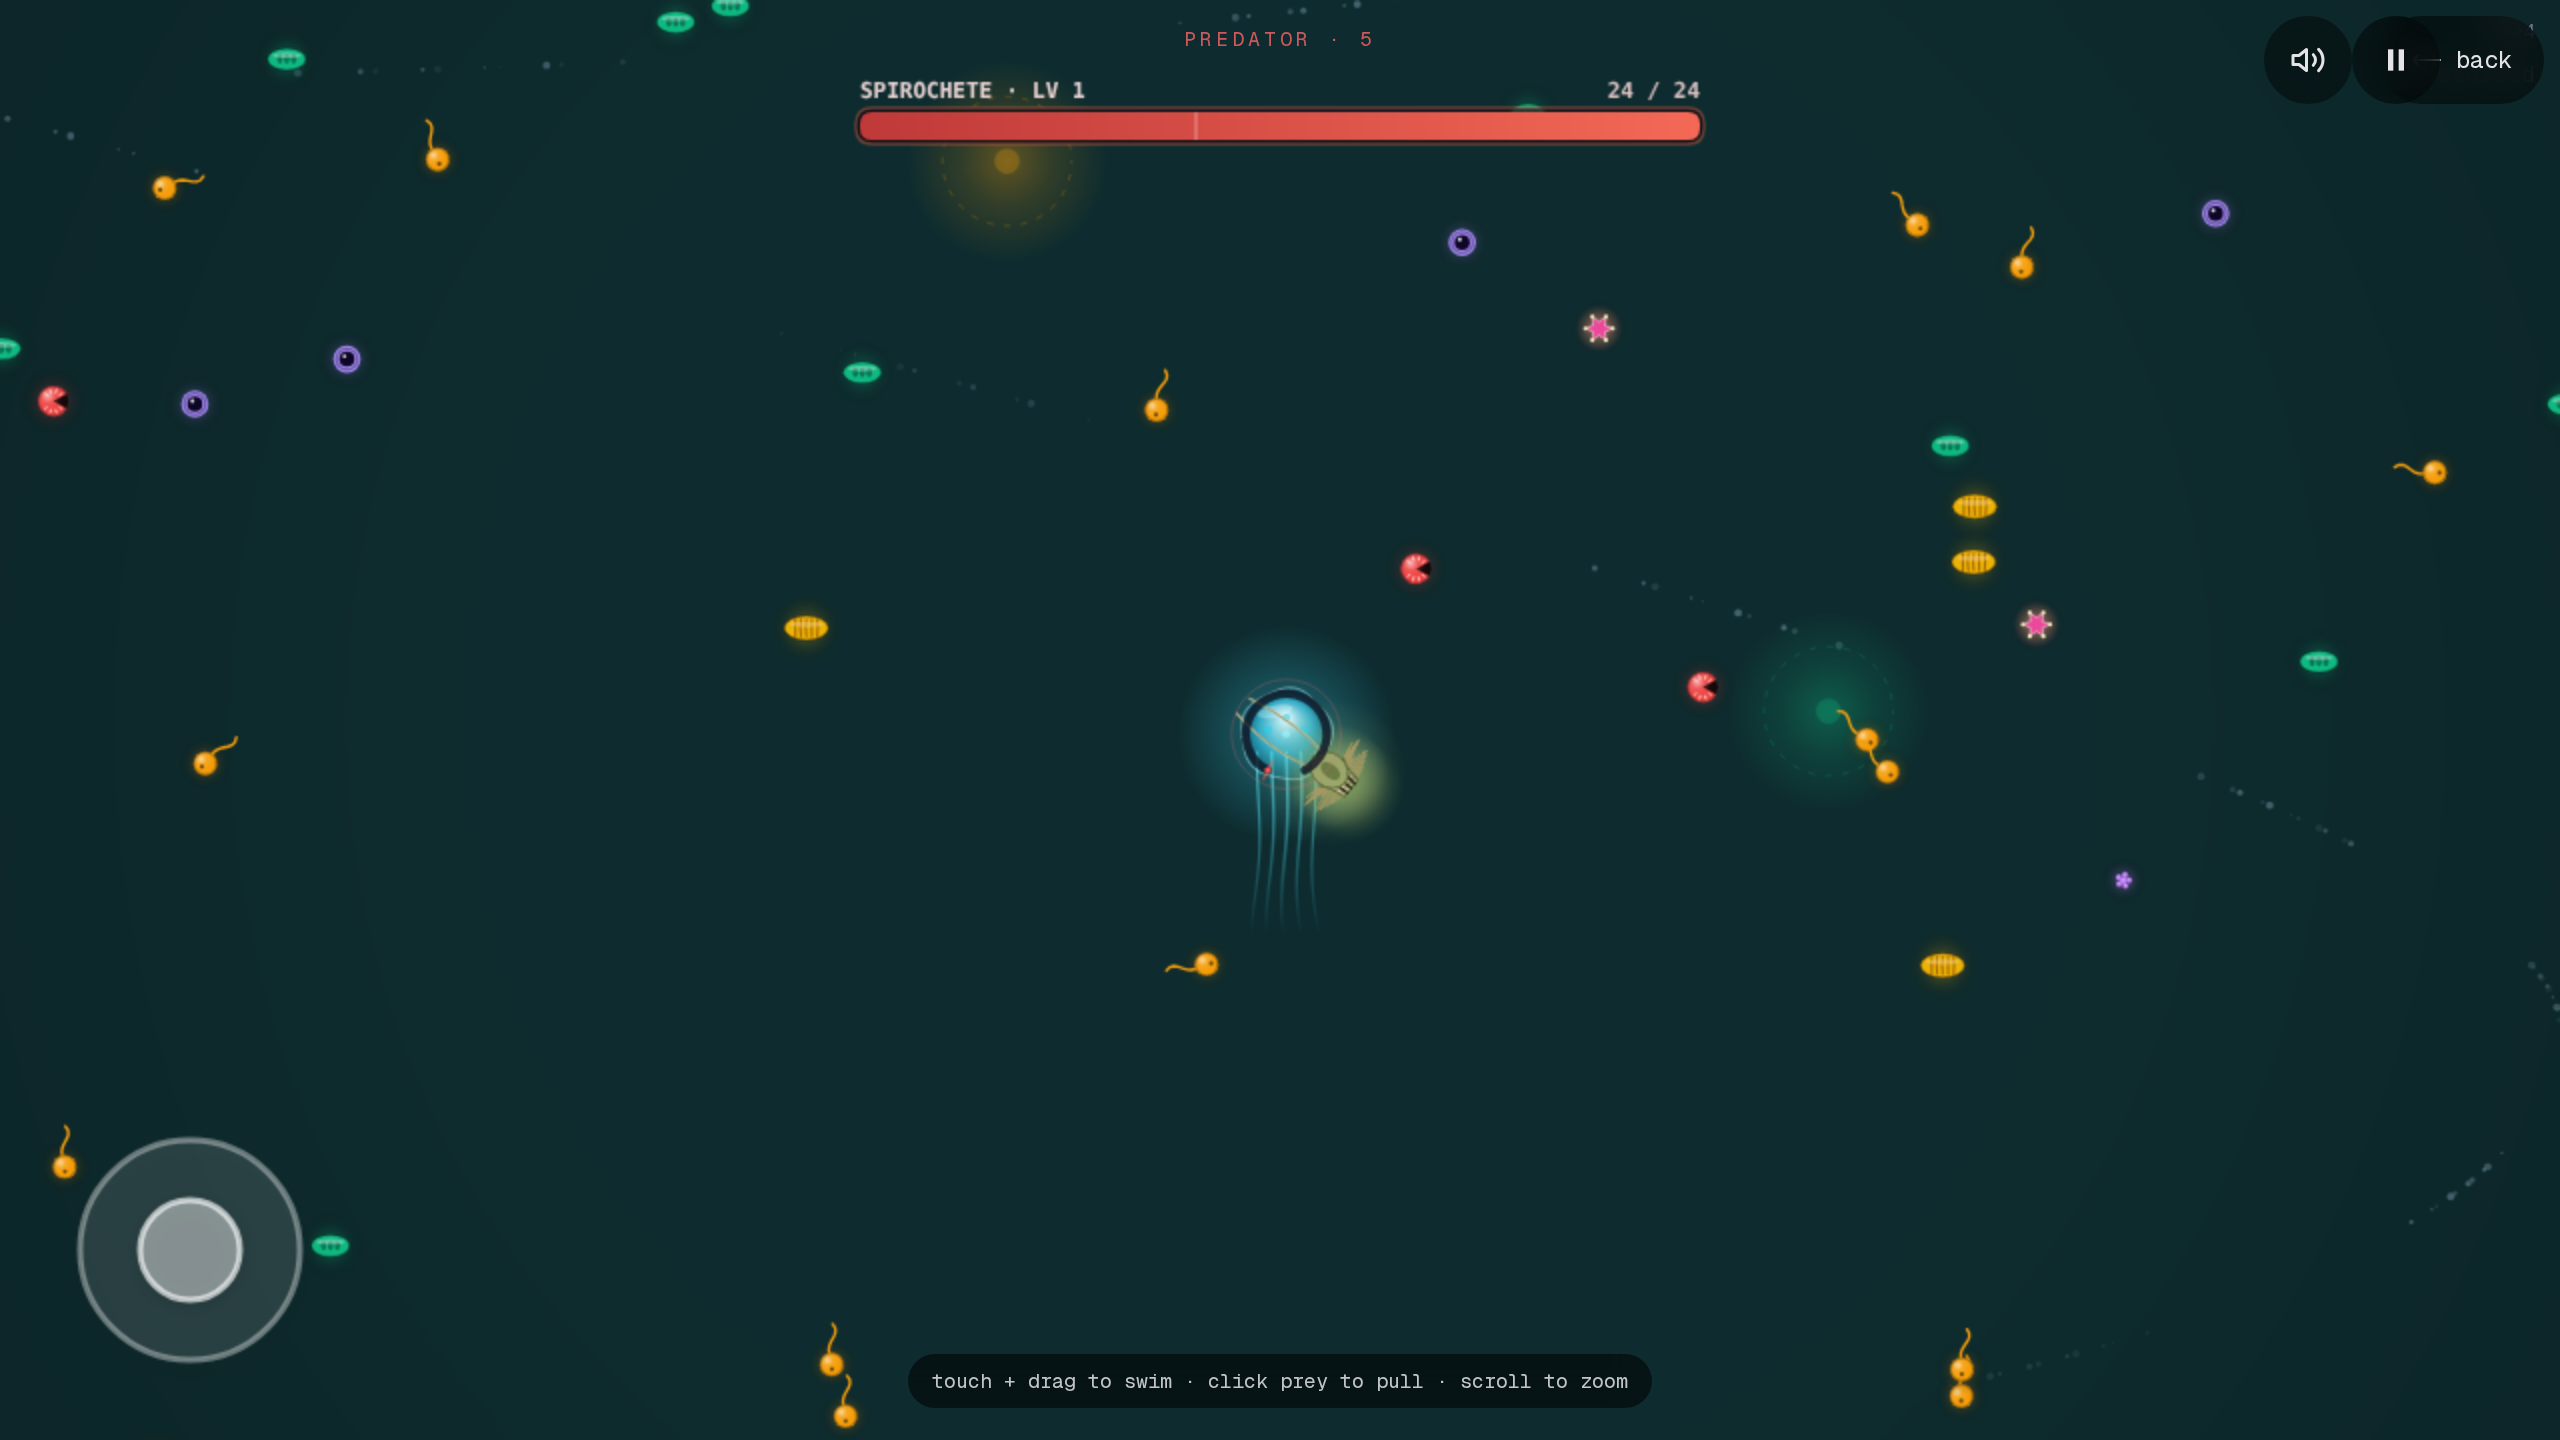
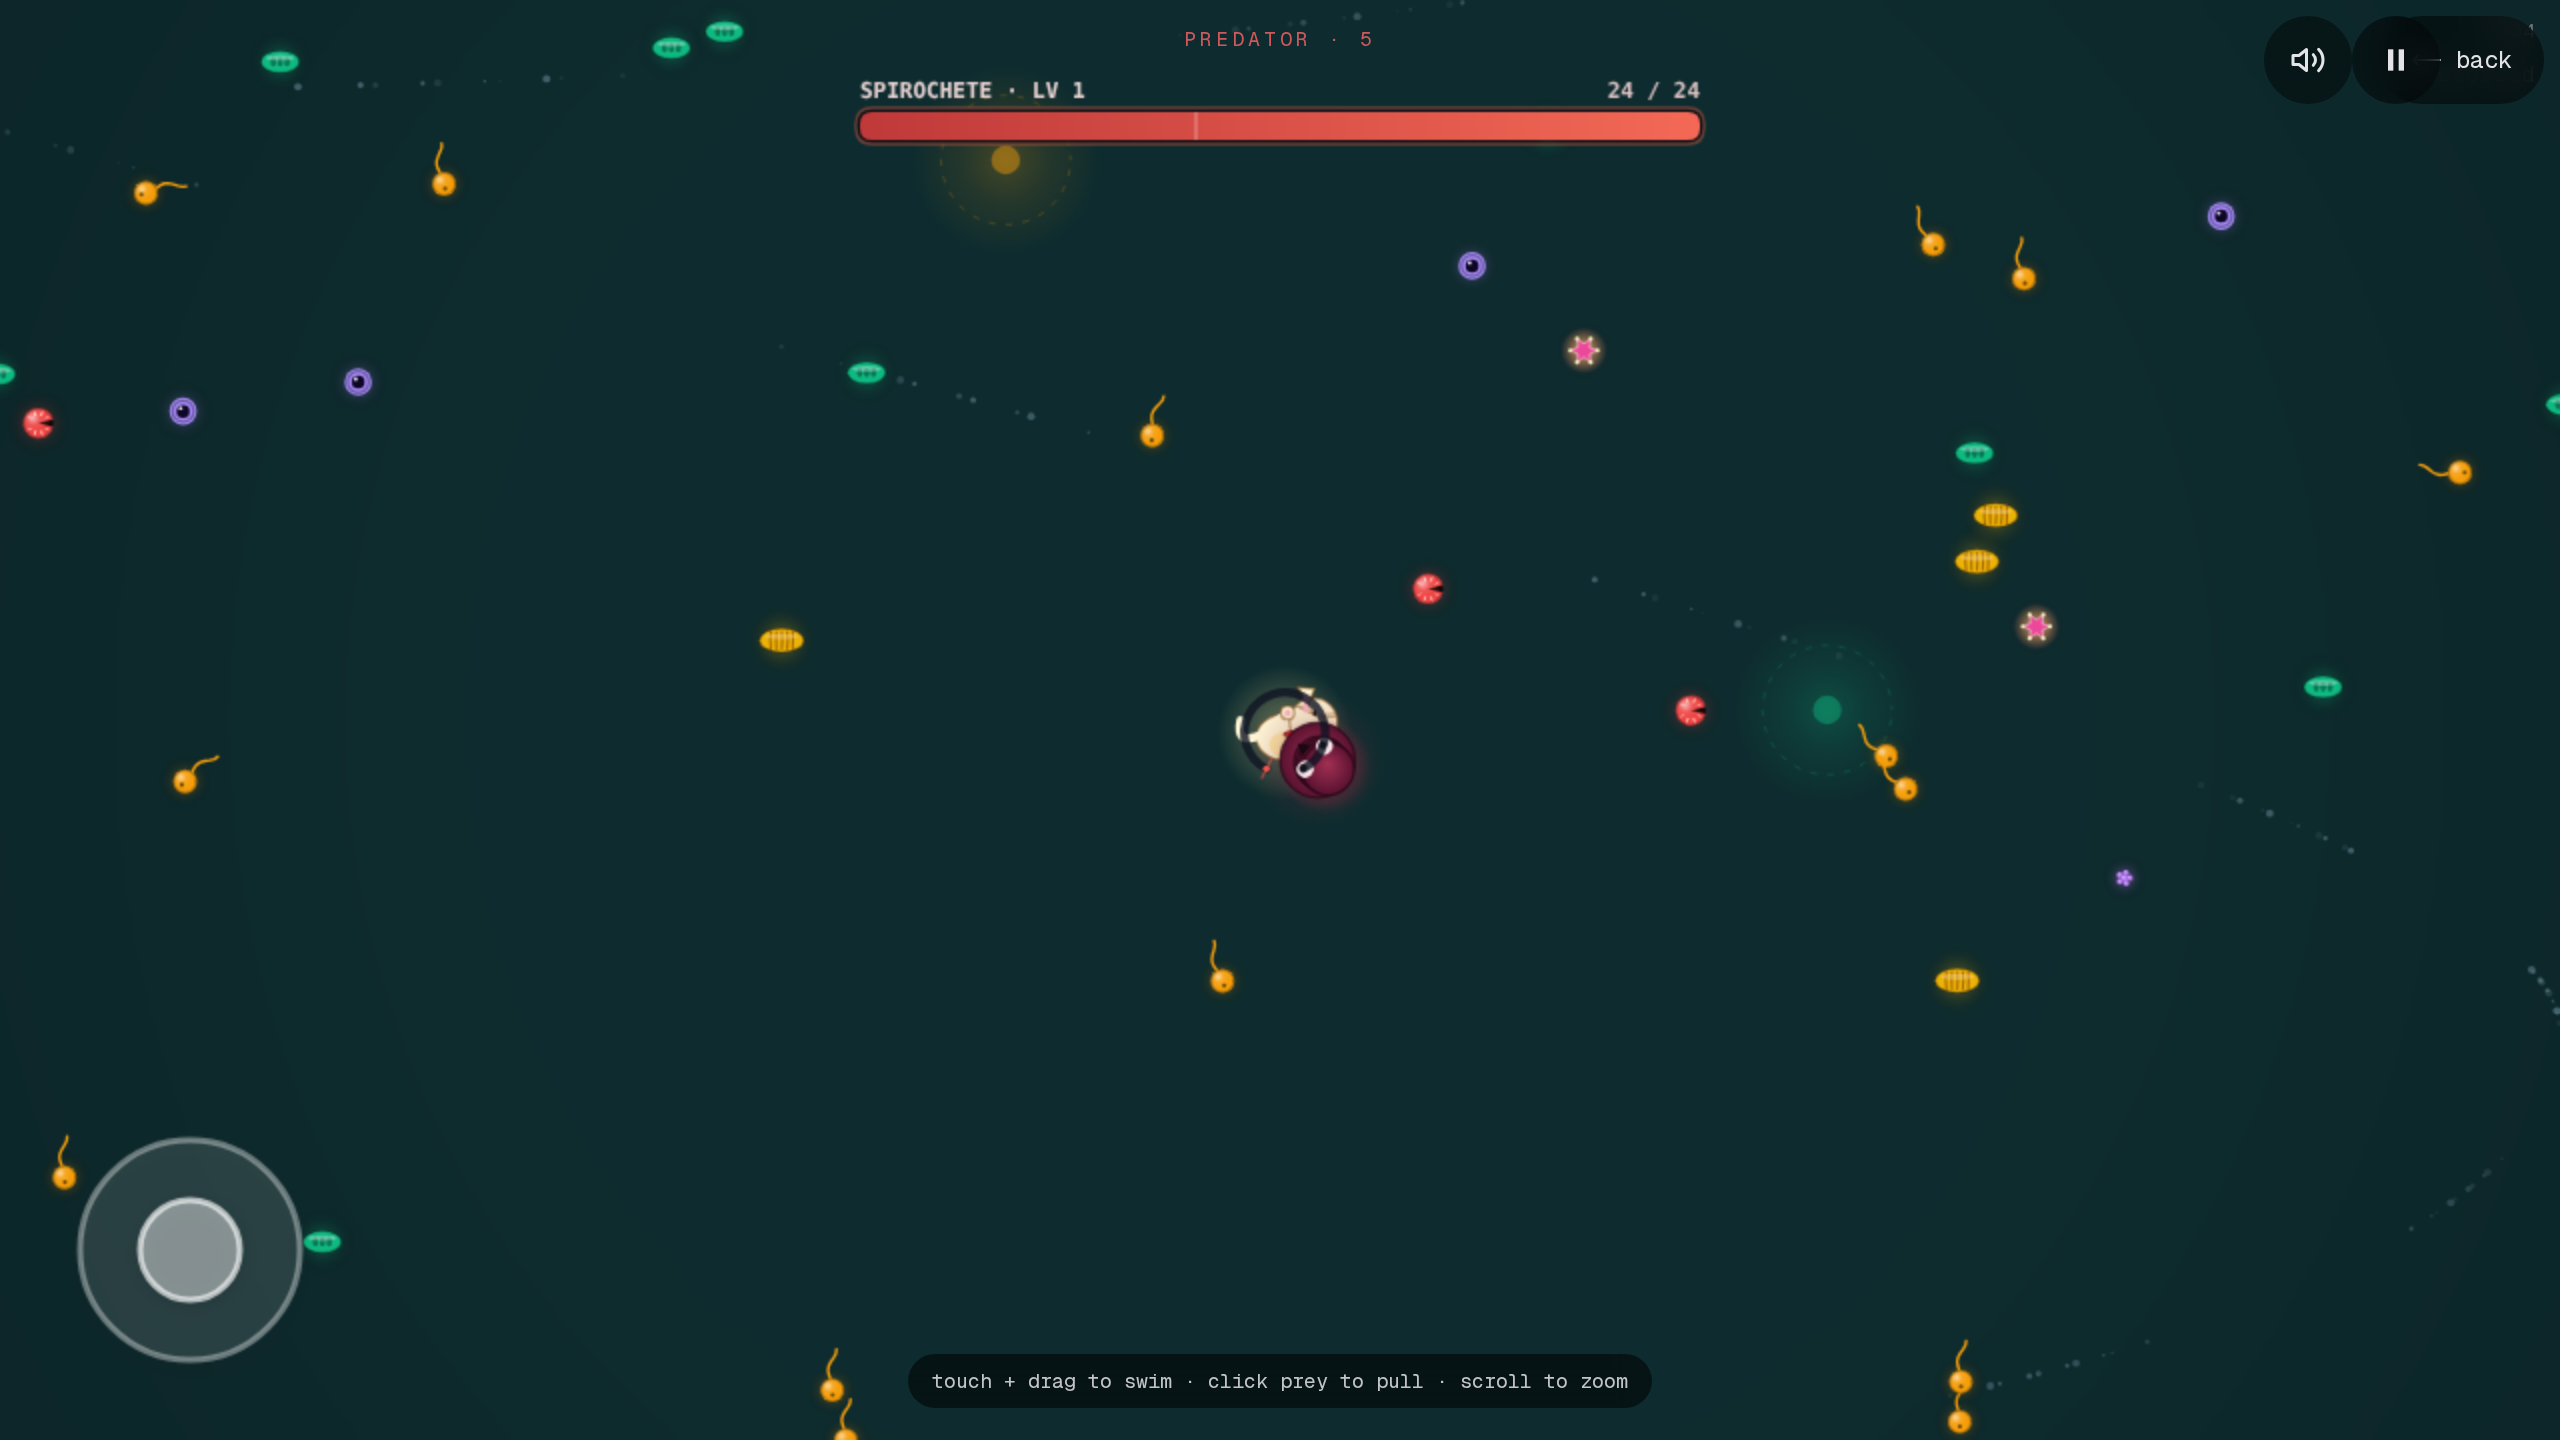
fix(copy): refresh stale 'click prey to pull' HUD hint
The control hint at the bottom of /play still referenced the removed
tap-to-shoot mechanic. Update to reference the Attack button and pull
the swim verb from the active theme's tutorial copy.

diff --git a/src/components/GameCanvas.tsx b/src/components/GameCanvas.tsx
@@ -697,8 +697,8 @@ export default function GameCanvas() {
           className="pointer-events-none absolute bottom-2 left-1/2 max-w-[92vw] -translate-x-1/2 rounded-full bg-black/55 px-3 py-1.5 text-center font-mono text-[10px] text-zinc-200/85 backdrop-blur-sm transition-opacity"
           style={{ bottom: "max(1rem, env(safe-area-inset-bottom))" }}
         >
-          <span className="hidden sm:inline">touch + drag to swim · click prey to pull · scroll to zoom</span>
-          <span className="sm:hidden">touch + drag to swim · pinch to zoom</span>
+          <span className="hidden sm:inline">touch + drag to {currentTheme().tutorial.swim} · attack button to fire · scroll to zoom</span>
+          <span className="sm:hidden">touch + drag to {currentTheme().tutorial.swim} · pinch to zoom</span>
         </div>
       )}
 
